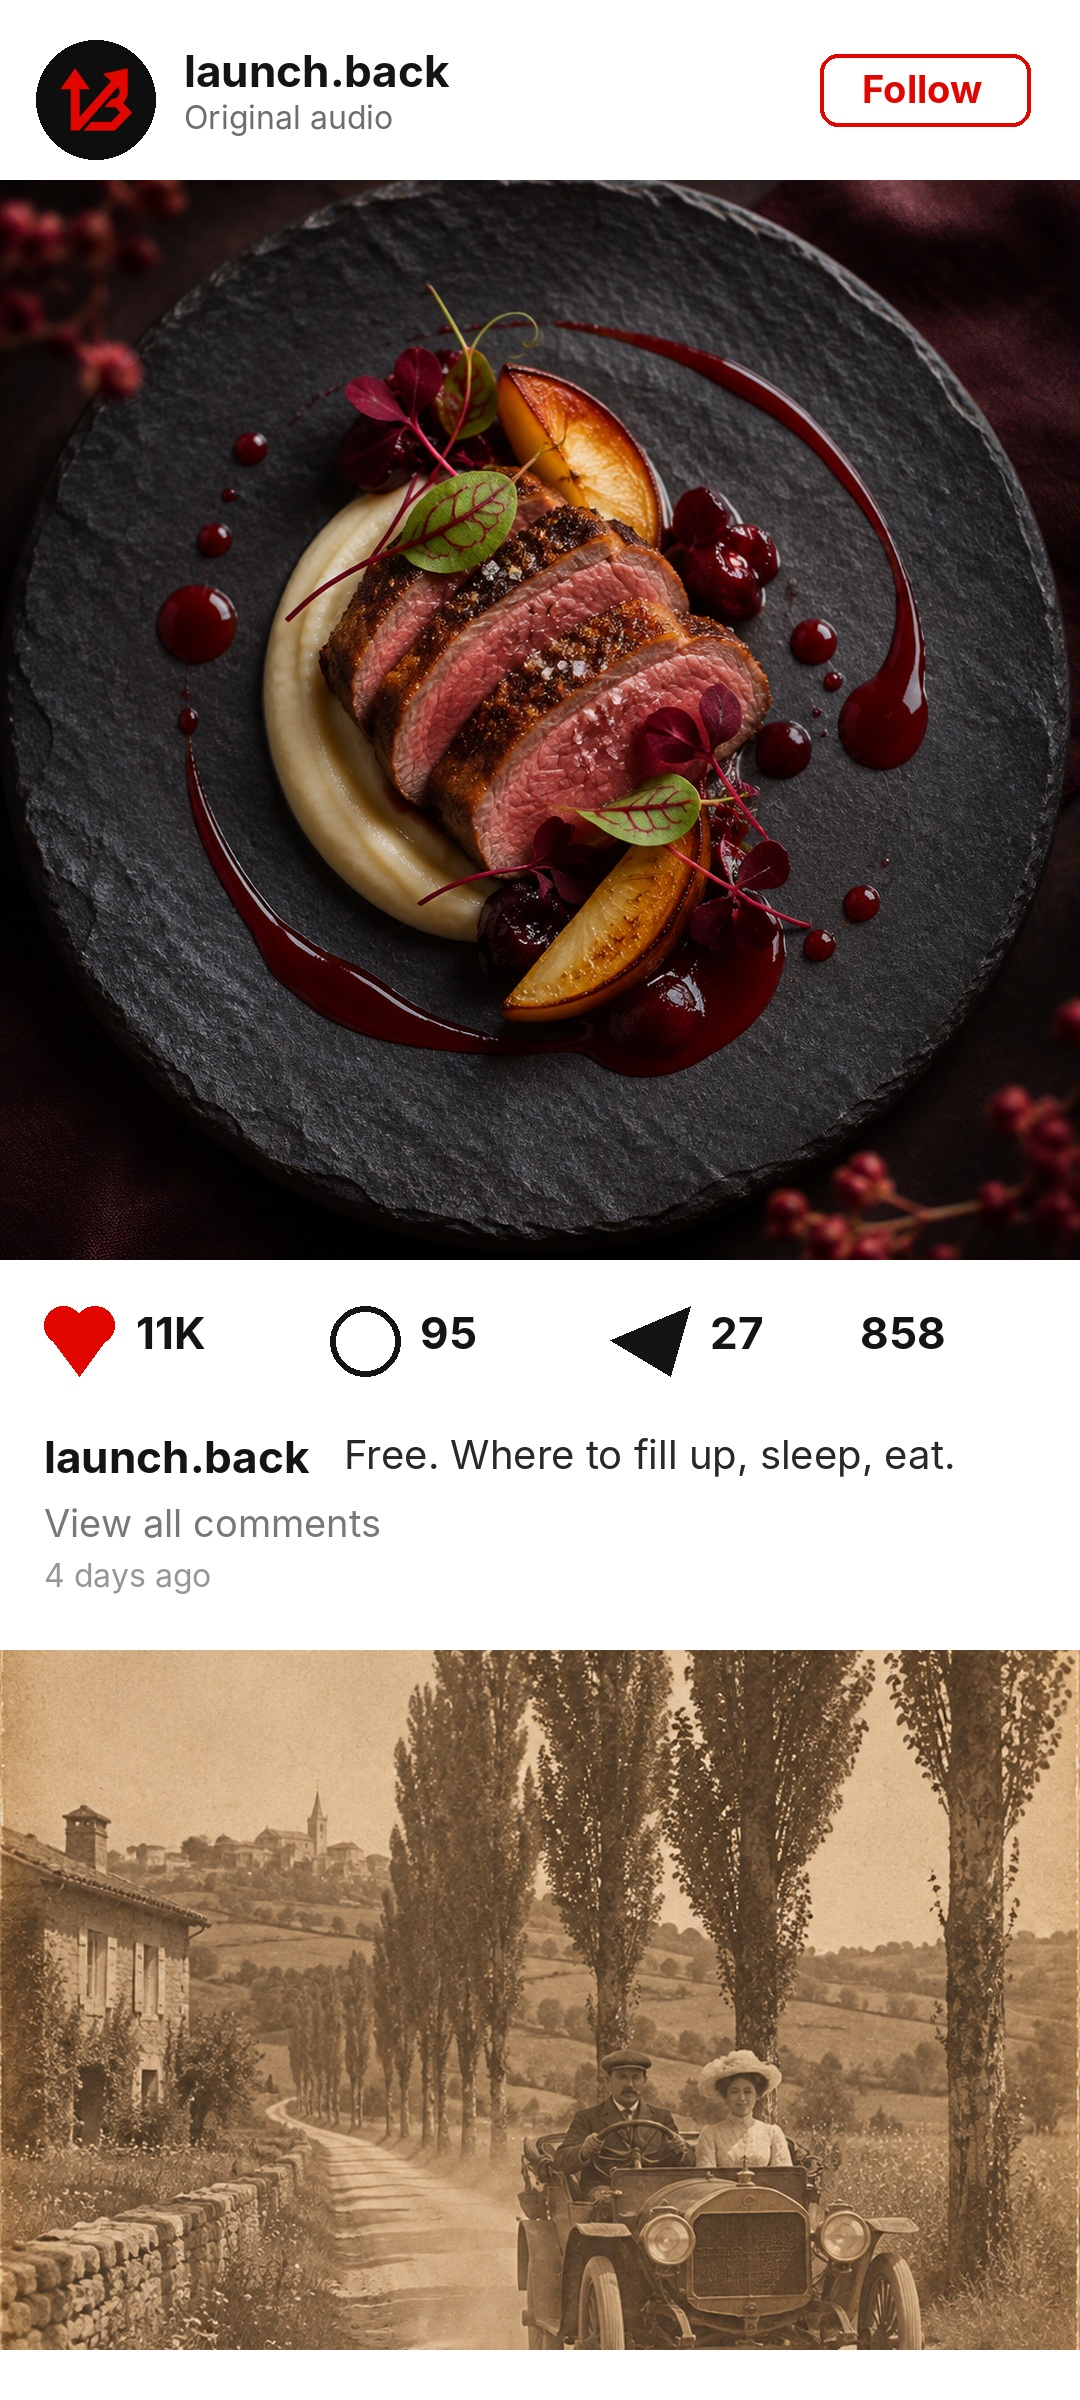
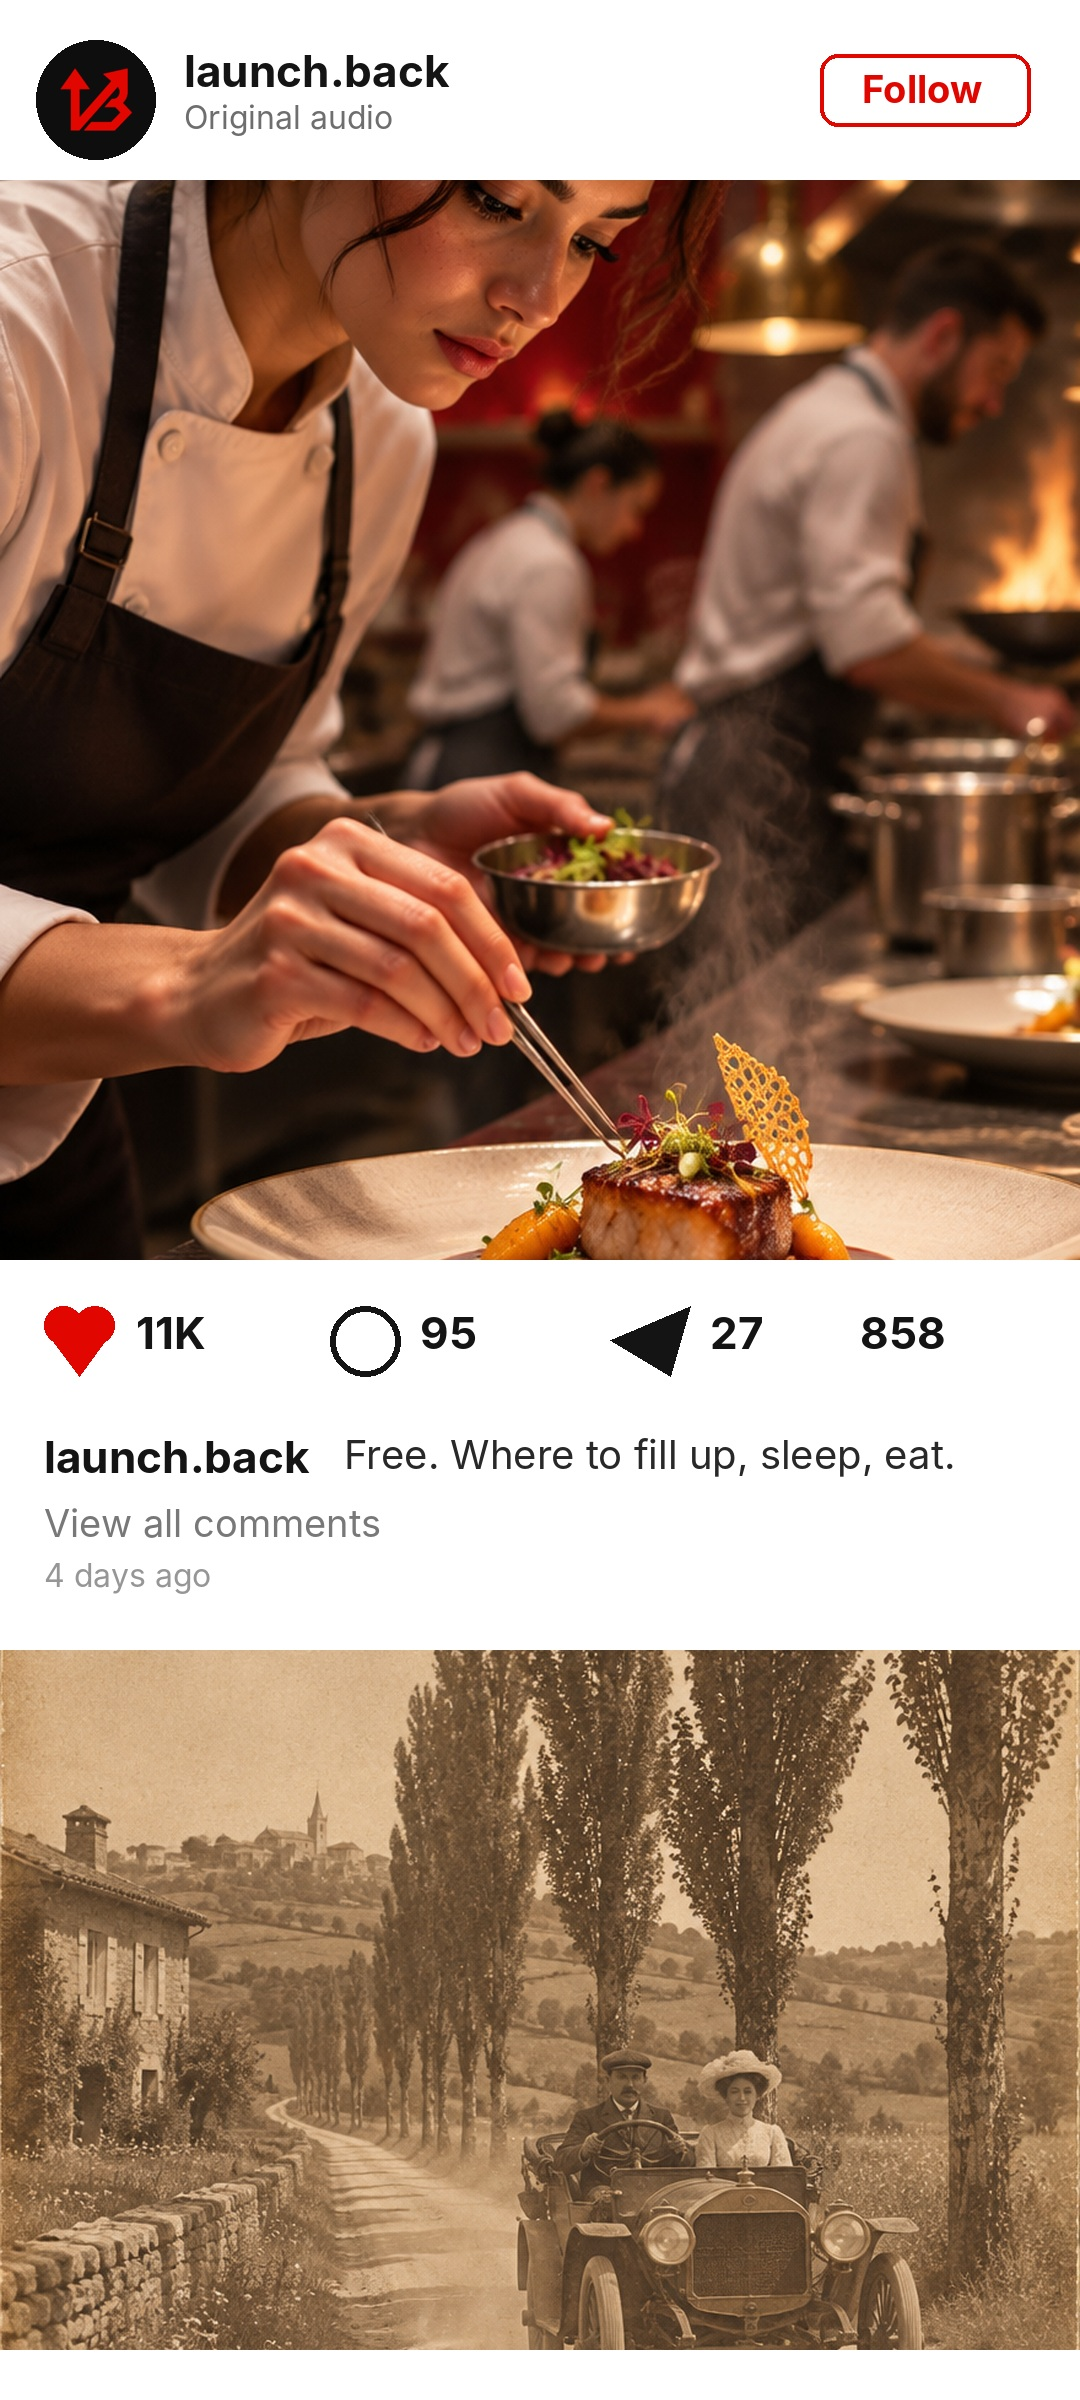
gen: brighter post/profile photo
Claude-Session: https://claude.ai/code/session_011miDLwMkMWUnnDYQ65QpuZ

diff --git a/workflows/video/gen/runs/michelin_gen/make_assets.py b/workflows/video/gen/runs/michelin_gen/make_assets.py
@@ -77,7 +77,7 @@ def heart(d, x, y, s, col):
 post = Image.new('RGB', (1080, 2400), (255, 255, 255)); d = ImageDraw.Draw(post)
 post.paste(avatar(120).resize((120, 120)), (36, 40), avatar(120).resize((120, 120))); d.text((184, 44), HANDLE, font=F(BOLD, 44), fill=(20, 20, 20)); d.text((184, 98), 'Original audio', font=F(REG, 32), fill=(110, 110, 110))
 d.rounded_rectangle((820, 54, 1030, 126), 18, outline=RED, width=4); d.text((862, 66), 'Follow', font=F(BOLD, 38), fill=RED)
-post.paste(fit(os.path.join(G, 'dish.png'), (1080, 1080)), (0, 180))
+post.paste(fit(os.path.join(G, 'chef_broll.png'), (1080, 1080)), (0, 180))
 heart(d, 44, 1306, 70, RED); d.text((136, 1306), '11K', font=F(BOLD, 44), fill=(20, 20, 20)); d.ellipse((330, 1306, 400, 1376), outline=(20, 20, 20), width=6); d.text((420, 1306), '95', font=F(BOLD, 44), fill=(20, 20, 20))
 d.polygon([(610, 1340), (690, 1306), (670, 1376)], fill=(20, 20, 20)); d.text((710, 1306), '27', font=F(BOLD, 44), fill=(20, 20, 20)); d.text((860, 1306), '858', font=F(BOLD, 44), fill=(20, 20, 20))
 d.text((44, 1430), f'{HANDLE}', font=F(BOLD, 44), fill=(20, 20, 20)); d.text((44 + 300, 1430), 'Free. Where to fill up, sleep, eat.', font=F(REG, 40), fill=(40, 40, 40))
@@ -89,5 +89,5 @@ for i, (n, l) in enumerate([('19', 'posts'), ('2.4K', 'followers'), ('106', 'fol
     x = 460 + i * 380; d.text((x, 250), n, font=F(BOLD, 66), fill=(20, 20, 20)); d.text((x, 340), l, font=F(REG, 44), fill=(90, 90, 90))
 d.text((60, 560), 'LaunchBack | Finding the guidebook', font=F(BOLD, 50), fill=(20, 20, 20)); d.text((60, 630), 'behind every business you love.', font=F(REG, 50), fill=(40, 40, 40))
 d.rounded_rectangle((60, 760, 700, 880), 24, fill=(235, 235, 235)); d.text((110, 786), 'Following', font=F(BOLD, 52), fill=(20, 20, 20)); d.rounded_rectangle((730, 760, 1360, 880), 24, fill=(235, 235, 235)); d.text((860, 786), 'Message', font=F(BOLD, 52), fill=(20, 20, 20))
-for i, n in enumerate(['dish', 'photo1', 'photo2']): prof.paste(fit(os.path.join(G, f'{n}.png'), (530, 760)), (i * 540, 1040))
+for i, n in enumerate(['chef_broll', 'photo1', 'photo2']): prof.paste(fit(os.path.join(G, f'{n}.png'), (530, 760)), (i * 540, 1040))
 prof.save(os.path.join(O, 'ui_profile.jpg'), quality=94); print('assets:', sorted(os.listdir(O)))
